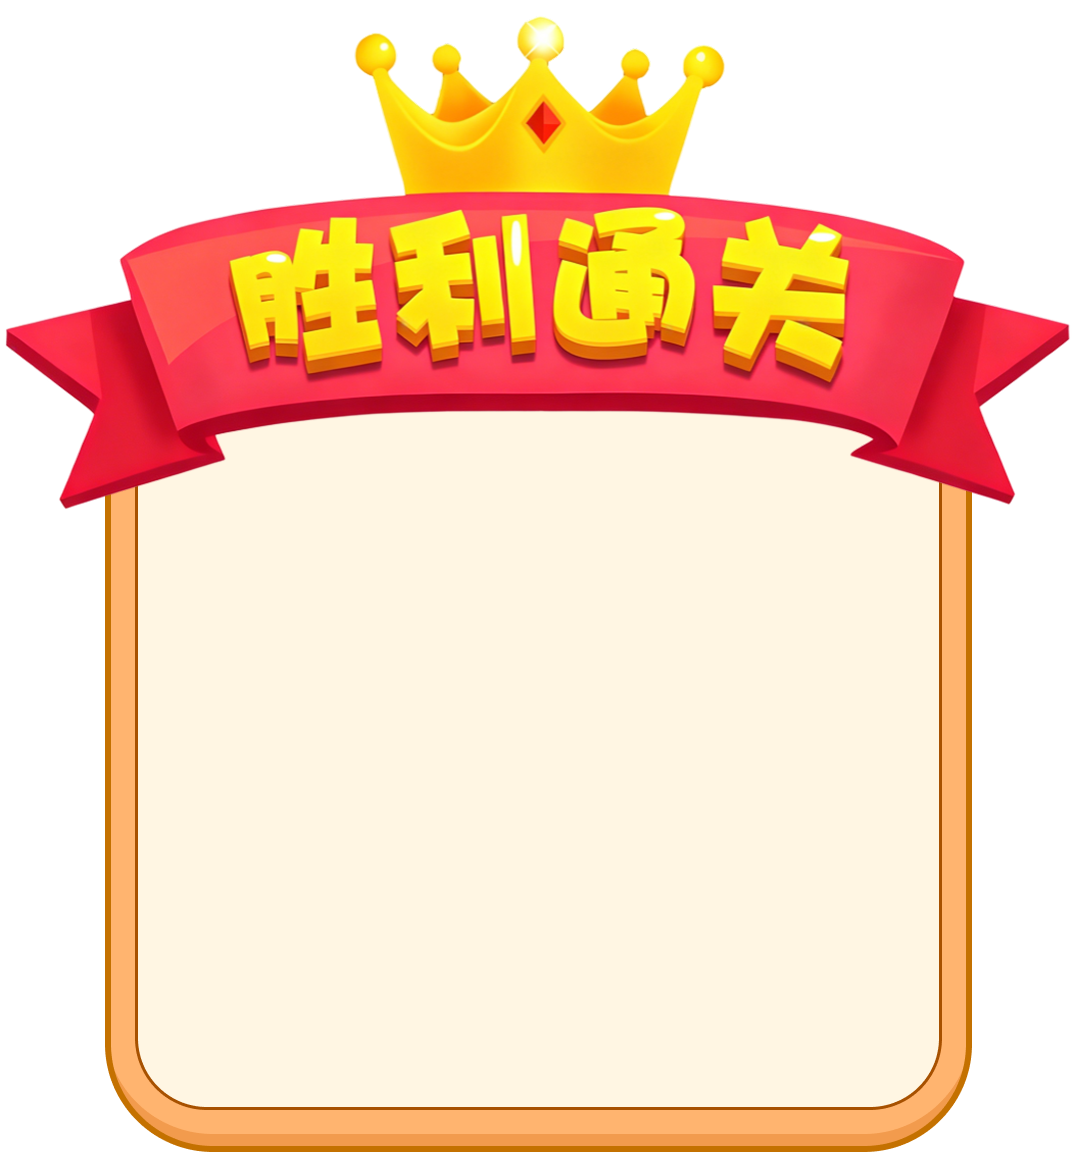
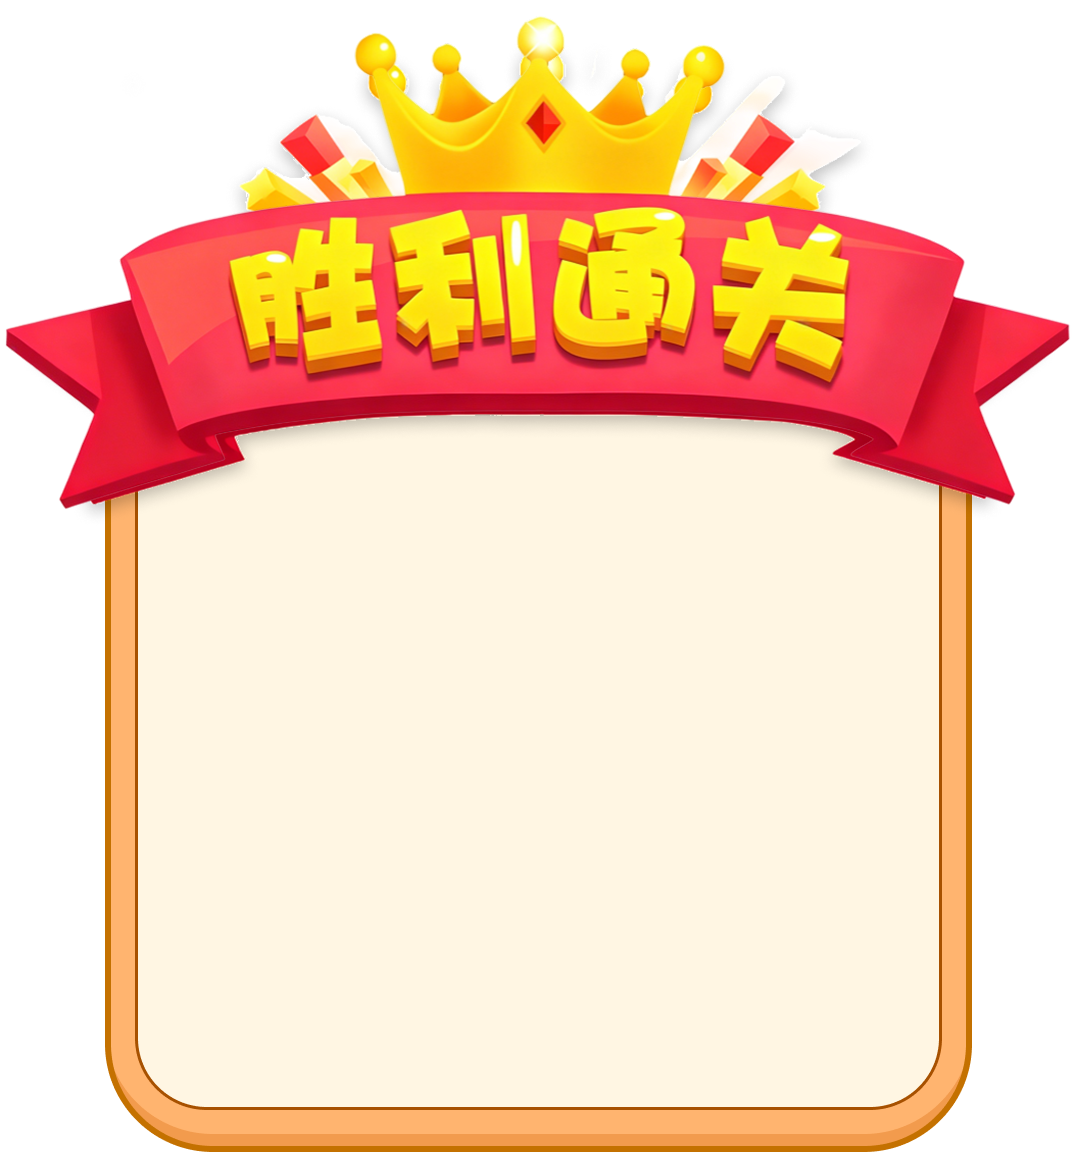
feat: add common skins, update victory_bg and PlayingEngine

diff --git a/js/game/PlayingEngine.js b/js/game/PlayingEngine.js
@@ -1653,27 +1653,27 @@ class PlayingEngine {
       // board 或 pigs 阶段：不渲染任何 UI 控件
     }
 
-    // 5.5 测试按钮（飞币 + 奖杯，始终可见，与游戏逻辑无关）
-    var testBx = SCREEN_WIDTH - 118, testBy = 90, testBw = 30, testBh = 30;
-    var awardBx = testBx - testBw - 6;
-      // "奖" 按钮
-      ctx.fillStyle = 'rgba(255,152,0,0.7)';
-      ctx.beginPath();
-      ctx.arc(awardBx + testBw / 2, testBy + testBh / 2, testBw / 2, 0, Math.PI * 2);
-      ctx.fill();
-      ctx.fillStyle = '#fff';
-      ctx.font = 'bold 12px ' + Theme.font.family + '';
-      ctx.textAlign = 'center';
-      ctx.textBaseline = 'middle';
-      ctx.fillText('奖', awardBx + testBw / 2, testBy + testBh / 2);
-      // "币" 按钮
-      ctx.fillStyle = 'rgba(33,150,243,0.6)';
-      ctx.beginPath();
-      ctx.arc(testBx + testBw / 2, testBy + testBh / 2, testBw / 2, 0, Math.PI * 2);
-      ctx.fill();
-      ctx.fillText('币', testBx + testBw / 2, testBy + testBh / 2);
-      this._testBurstBtn = { x: testBx, y: testBy, w: testBw, h: testBh };
-      this._testAwardBtn = { x: awardBx, y: testBy, w: testBw, h: testBh };
+    // 5.5 测试按钮（飞币 + 奖杯）— 已注释，需用时取消注释
+    // var testBx = SCREEN_WIDTH - 118, testBy = 90, testBw = 30, testBh = 30;
+    // var awardBx = testBx - testBw - 6;
+    //   // "奖" 按钮
+    //   ctx.fillStyle = 'rgba(255,152,0,0.7)';
+    //   ctx.beginPath();
+    //   ctx.arc(awardBx + testBw / 2, testBy + testBh / 2, testBw / 2, 0, Math.PI * 2);
+    //   ctx.fill();
+    //   ctx.fillStyle = '#fff';
+    //   ctx.font = 'bold 12px ' + Theme.font.family + '';
+    //   ctx.textAlign = 'center';
+    //   ctx.textBaseline = 'middle';
+    //   ctx.fillText('奖', awardBx + testBw / 2, testBy + testBh / 2);
+    //   // "币" 按钮
+    //   ctx.fillStyle = 'rgba(33,150,243,0.6)';
+    //   ctx.beginPath();
+    //   ctx.arc(testBx + testBw / 2, testBy + testBh / 2, testBw / 2, 0, Math.PI * 2);
+    //   ctx.fill();
+    //   ctx.fillText('币', testBx + testBw / 2, testBy + testBh / 2);
+    //   this._testBurstBtn = { x: testBx, y: testBy, w: testBw, h: testBh };
+    //   this._testAwardBtn = { x: awardBx, y: testBy, w: testBw, h: testBh };
 
     // 6. 通关弹窗（UIManager）
     if (this._victory && this._showVictoryPanel) {